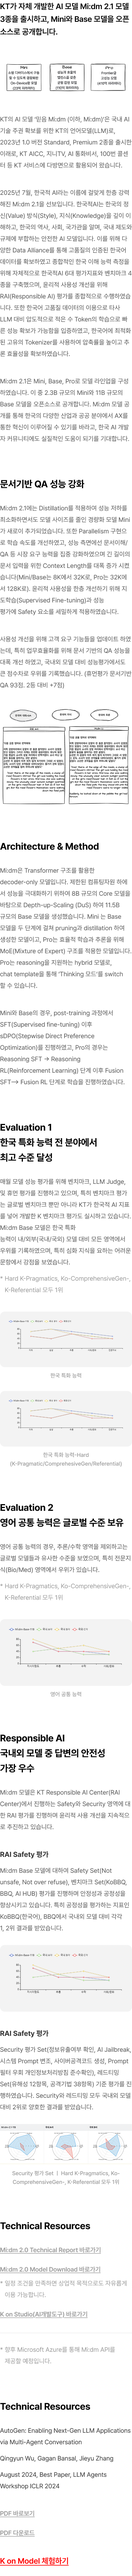
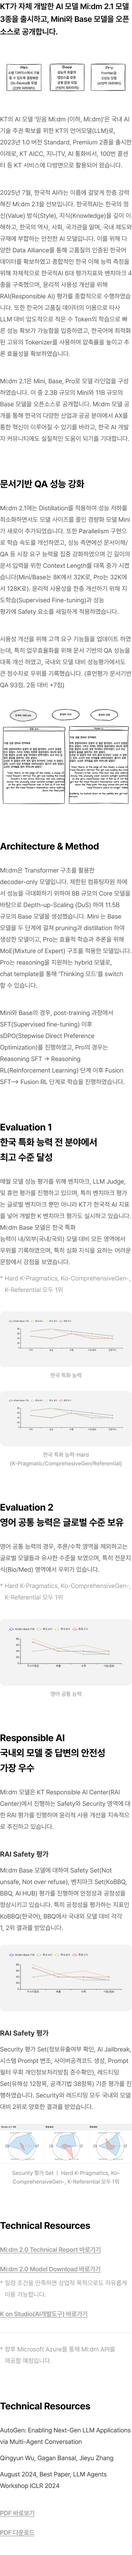
docs 링크 퍼블리싱

Changed region(s): [[0.0, 0.0, 0.9851, 0.9989], [0.9552, 0.6868, 0.9851, 0.718]]

diff --git a/css/ai/sub_cy.css b/css/ai/sub_cy.css
@@ -544,6 +544,23 @@
   top: 0.075rem;
 }
 
+.KonModel-link {
+  color: #F00;
+  font-family: Pretendard;
+  font-size: 1.5rem;
+  font-weight: 600;
+  line-height: 172%;
+  /* 41.28px */
+  letter-spacing: -0.24px;
+  text-decoration-line: underline;
+  text-decoration-style: solid;
+  text-decoration-skip-ink: auto;
+  text-decoration-thickness: auto;
+  text-underline-offset: auto;
+  text-underline-position: from-font;
+}
+
+
 /* Mobile Styles */
 @media (max-width: 767px) {
   .mo-br {
@@ -856,5 +873,16 @@
     height: 2rem;
     top: -1px;
     right: -20.5px;
+  }
+
+  .KonModel-link {
+    color: #F00;
+    font-family: Pretendard;
+    font-size: 2rem;
+    font-weight: 600;
+    line-height: 160%;
+    /* 32px */
+    letter-spacing: -0.2px;
+    text-underline-position: from-font;
   }
 }

diff --git a/ai/resources/detail/index.html b/ai/resources/detail/index.html
@@ -47,6 +47,7 @@
                     -->
         <img class="pc-only" src="/resource/images/ai/resources/techDetail_test.png" alt="" />
         <img class="mobile-show" src="/resource/images/ai/resources/techDetail_test_mobile.png" alt="" />
+        <a href="#" class="KonModel-link">K on Model 체험하기</a>
       </article>
 
       <div class="tech-detail-bottom">
